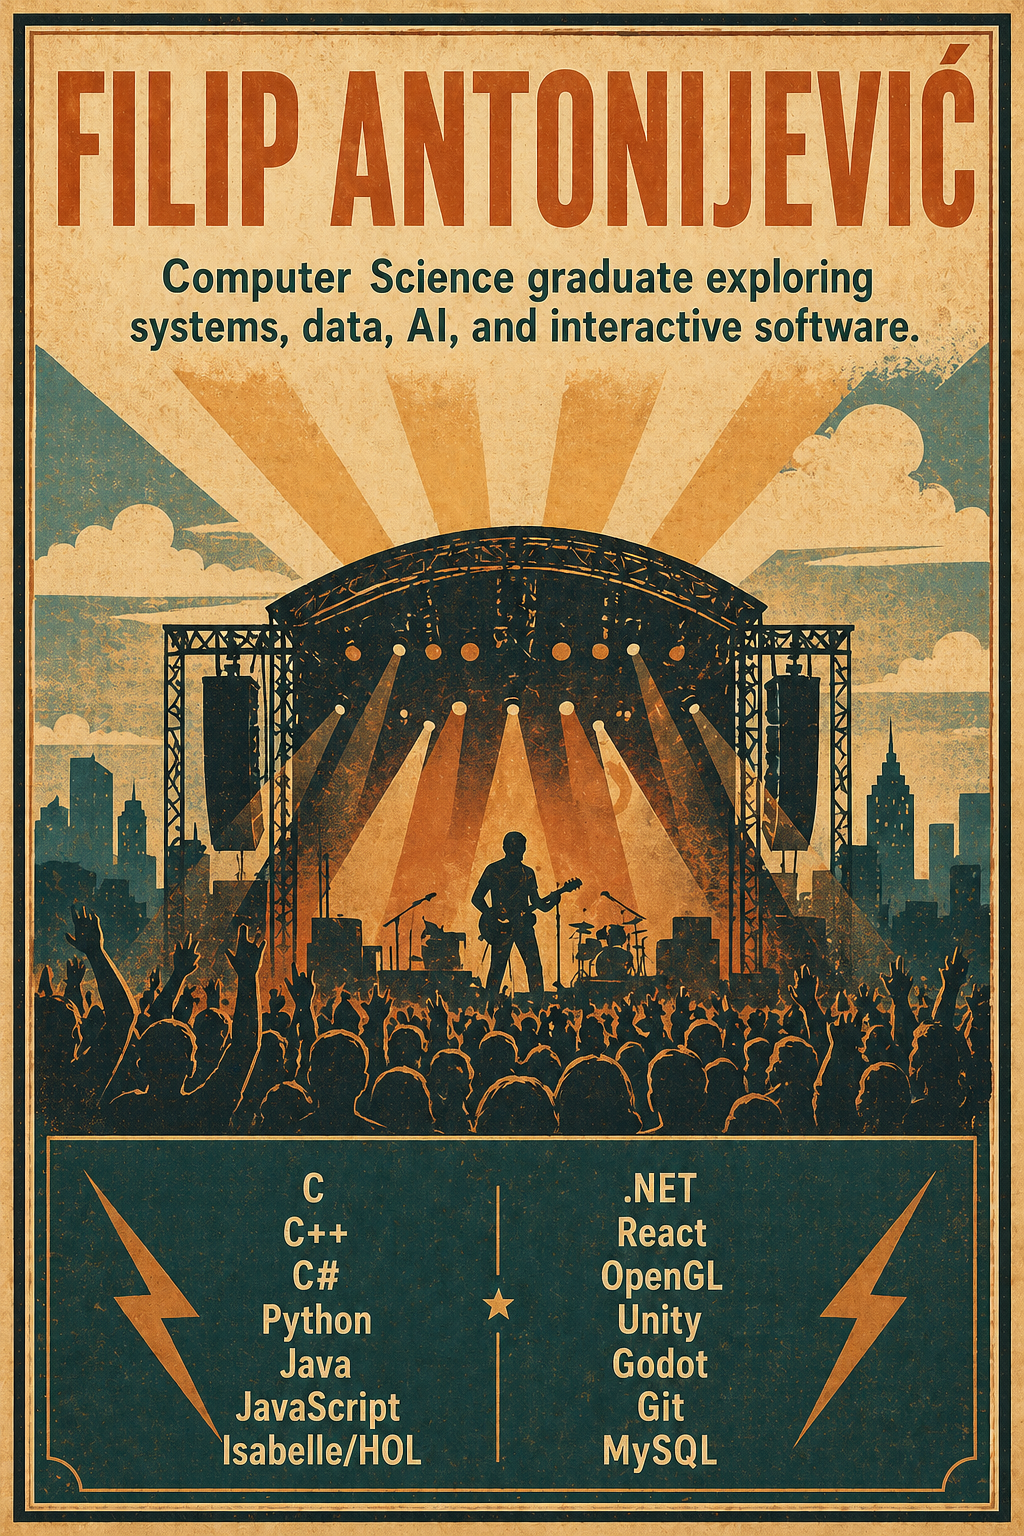
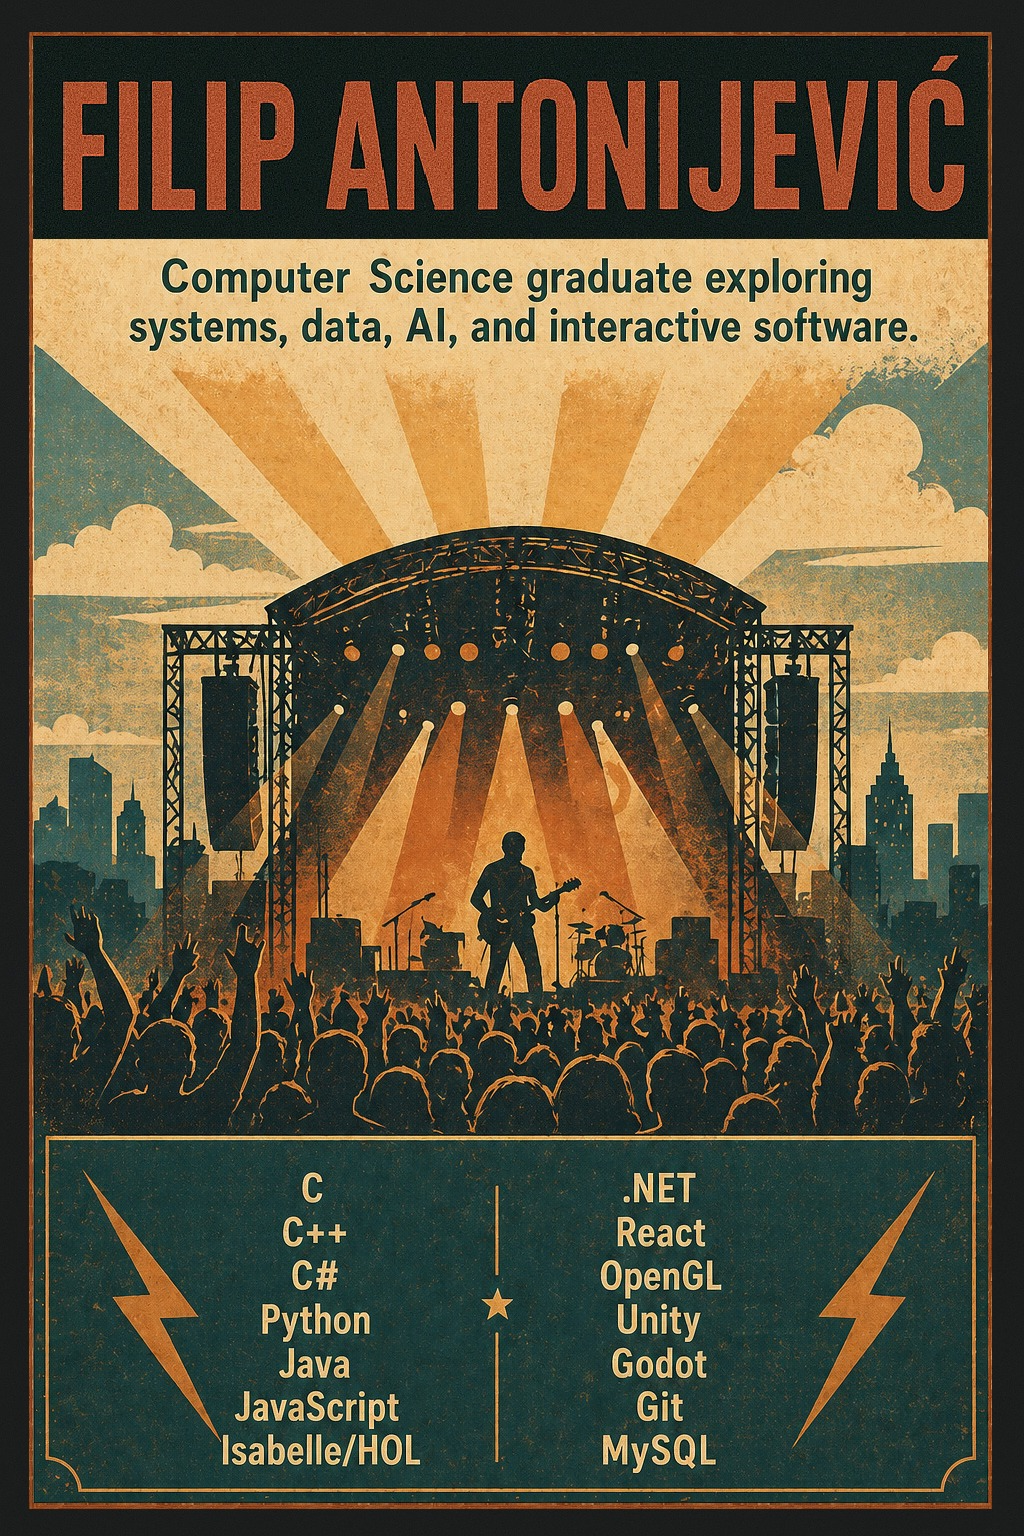
Added hyperlinked graffiti images of linkedin github mail and cv

diff --git a/src/components/LeftColumn.jsx b/src/components/LeftColumn.jsx
@@ -11,17 +11,73 @@ function LeftColumn() {
         display: 'flex',
         alignItems: 'center',
         justifyContent: 'center',
+        position: 'relative',
+        /*outline: '2px solid red',*/
       }}
     >
       <img
         src="/images/rest/Poster.png"
-        alt="Poster"
+        alt=""
           style={{
-            width: '60%',
+            width: '50%',
             height: 'auto',
             display: 'block',
-            transform: 'translate(10%, -30%)',
+            transform: 'translate(10%, -35%)',
           }}
+      />
+
+      <a href="https://github.com/FilipAntonijevic" target="_blank" rel="noopener noreferrer" style={{ position: 'absolute', right: '-10%', top: '25%', width: '25%', height: 'auto', zIndex: 20, pointerEvents: 'auto', display: 'block', transform: 'translateY(-50%) rotate(4deg)' }}>
+        <img
+          src="/images/rest/Github_graffiti.png"
+          alt=""
+          style={{
+            width: '100%',
+            height: 'auto',
+            display: 'block',
+            pointerEvents: 'none'
+          }}
+        />
+      </a>
+
+      <a href="mailto:filipdantonijevic@gmail.com" style={{ position: 'absolute', right: '57%', top: '85%', width: '20%', height: 'auto', zIndex: 20, pointerEvents: 'auto', display: 'block', transform: 'translateY(-50%) rotate(8deg)' }}>
+        <img
+          src="/images/rest/Mail.png"
+          alt="Email"
+          style={{
+            width: '100%',
+            height: 'auto',
+            display: 'block',
+            pointerEvents: 'none'
+          }}
+        />
+      </a>
+
+      <a href="https://www.linkedin.com/in/filip-antonijevic-bbb3923a6/" target="_blank" rel="noopener noreferrer" style={{ position: 'absolute', right: '10%', top: '63%', width: '14%', height: 'auto', zIndex: 20, pointerEvents: 'auto', display: 'block' }}>
+        <img
+          src="/images/rest/Linkedin_graffiti.png"
+          alt=""
+          style={{
+            width: '100%',
+            height: 'auto',
+            display: 'block',
+            pointerEvents: 'none'
+          }}
+        />
+      </a>
+
+      <img
+        src="/images/rest/CV_graffiti.png"
+        alt=""
+        style={{
+          position: 'absolute',
+          right: '71%',
+          top: '39%',
+          transform: 'translateY(-50%)',
+          width: '30%',
+          height: 'auto',
+          zIndex: 20,
+          pointerEvents: 'auto',
+        }}
       />
     </aside>
   );

diff --git a/src/styles.css b/src/styles.css
@@ -87,8 +87,8 @@ img {
     max-width: 2400px;
     margin: 0 auto;
     display: grid;
-    /* Left column fixed to 33% of viewport width, center uses remaining 67% */
-    grid-template-columns: 33% 67%;
+    /* Left column widened to 40% so center column becomes smaller (40% / 60%) */
+    grid-template-columns: 40% 60%;
     gap: var(--spacing-xl);
     align-items: start;
   }
